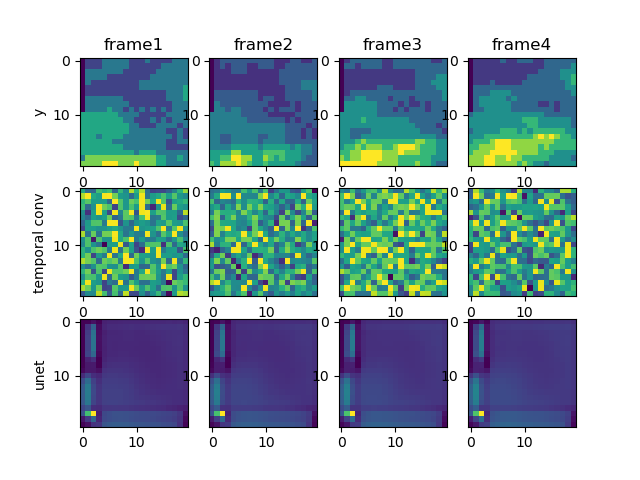
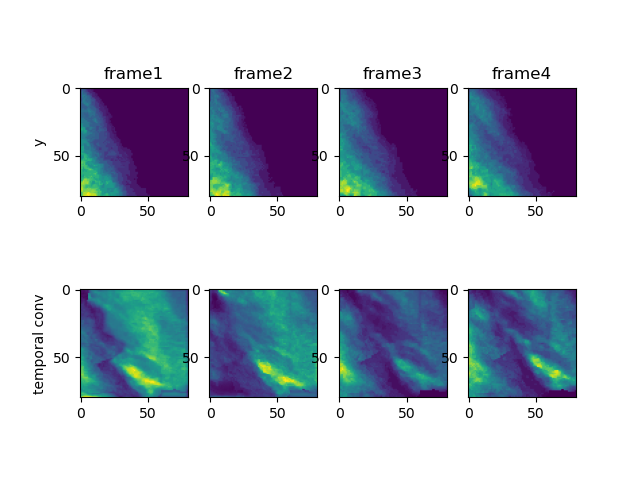
fixes

diff --git a/compare_models/results/results.html b/compare_models/results/results.html
@@ -1,1 +1,1 @@
-<table><head><th><td>local temporal conv</td><td>local unet</td></th></head><tbody><tr><td>val loss</td><td>0.00131</td><td>0.00115</td></tr><tr><td>val acc</td><td>0.94906</td><td>0.95181</td></tr><tr><td>val prec</td><td>0.00089</td><td>0.40956</td></tr><tr><td>val rec</td><td>0.00942</td><td>0.34021</td></tr><tr><td>val denorm mse</td><td>84.48019</td><td>74.45583</td></tr><tr><td>forward pass time s</td><td>0.03124</td><td>0.04242</td></tr><tr><td>n parameters</td><td>43936.00000</td><td>4032548.00000</td></tr></tbody></table>
+<table><head><th><td>local temporal conv</td><td>local unet</td></th></head><tbody><tr><td>val loss</td><td>0.04539</td><td>0.19925</td></tr><tr><td>val acc</td><td>0.93621</td><td>0.94430</td></tr><tr><td>val prec</td><td>0.12394</td><td>0.10152</td></tr><tr><td>val rec</td><td>0.08043</td><td>0.03812</td></tr><tr><td>val denorm mse</td><td>1331845.00000</td><td>5846781.00000</td></tr><tr><td>forward pass time s</td><td>0.04155</td><td>0.11981</td></tr><tr><td>n parameters</td><td>18720.00000</td><td>4032548.00000</td></tr></tbody></table>

diff --git a/compare_models/__main__.py b/compare_models/__main__.py
@@ -7,7 +7,8 @@ from ..GAT3D.GATMultistream import Model
 from ..train import test
 import json
 import time
-from ..utils import get_number_parameters, model_classes
+from ..utils.misc import get_number_parameters, model_classes
+from ..unet_model import UnetModel
 import ipdb
 
 
@@ -15,9 +16,9 @@ def get_metrics(models, models_folders, preprocessed_folder, downsample_size):
     device = t.device("cuda" if t.cuda.is_available() else "cpu")
     results = {}
     for model_folder, model in zip(models_folders, models):
-        train_loader, test_loader, _ = get_loaders(
+        _, test_loader, _ = get_loaders(
             train_batch_size=2,
-            test_batch_size=100,
+            test_batch_size=10,
             preprocessed_folder=preprocessed_folder,
             device=device,
             downsample_size=downsample_size,
@@ -34,19 +35,28 @@ def get_metrics(models, models_folders, preprocessed_folder, downsample_size):
     return results
 
 
-def plot(out_path, loader, models):
+def plot(folders, out_path, loader, models):
     _fig, ax = plt.subplots(nrows=len(folders) + 1, ncols=4)
+    for model, folder in zip(models, folders):
+        name = " ".join(folder.split("_")[1:])
+        print(f"Parameters {name}: {get_number_parameters(model)}")
+
+    names = [" ".join(f.split("_")[1:]) for f in folders]
     for x, y in loader:
         for k in range(len(x)):
             raininess = y[k][y[k] != 0].numel() / y[k].numel()
             if raininess >= 0.3:
-                preds = [model(x)[k] for model in models]
+                preds = [model(x)[k] for model, name in zip(models, names)]
+                # ipdb.set_trace()
                 to_plot = [y[k]] + preds
-                to_plot = [t.pow(tp, 1 / loader.power) for tp in to_plot]
+                # to_plot = [t.pow(tp, 1 / loader.power) for tp in to_plot]
                 for i, row in enumerate(ax):
                     for j, col in enumerate(row):
+                        cur_to_plot = to_plot[i].cpu().detach().numpy()
                         col.imshow(
-                            to_plot[i].cpu().detach().numpy()[:, :, j, 1]
+                            cur_to_plot[:, :, j, 1]
+                            # if i < 2 or (not "unet" in names[i - 1])
+                            # else cur_to_plot[j, :, :]
                         )
 
                 row_labels = ["y"] + [
@@ -59,7 +69,8 @@ def plot(out_path, loader, models):
                 for ax_, col in zip(ax[0, :], col_labels):
                     ax_.set_title(col)
 
-                plt.savefig(os.path.join(out_path, f"multi_model_plot.png"))
+                # plt.savefig(os.path.join(out_path, f"multi_model_plot.png"))
+                plt.show()
                 plt.close()
                 return
 
@@ -86,12 +97,11 @@ def compare_models(
     base_path: str,
     folders: list[str],
     out_path="",
-    downsample_size=(20, 20),
-    preprocessed_folder: str = "/mnt/kmni_dataset/20_plus_preprocessed",
+    downsample_size=(80, 80),
+    preprocessed_folder: str = "/mnt/kmni_dataset/20_latest",
     dataset="kmni",
-    plot_only=False,
+    plot_only=True,
 ):
-    plt.clf()
     with t.no_grad():
         device = t.device("cuda" if t.cuda.is_available() else "cpu")
         train_loader, test_loader, _ = get_loaders(
@@ -116,7 +126,15 @@ def compare_models(
                 open(os.path.join(data_folder, "config.py")).read(),
                 config,
             )
-            model_class = model_classes[config["MODEL_TYPE"]]
+            config = {
+                key: val for key, val in config.items() if key.upper() == key
+            }
+            print(json.dumps(config, indent=4, default=str))
+            model_class = (
+                model_classes[config["MODEL_TYPE"]]
+                # if not "unet" in config["MODEL_TYPE"]
+                # else UnetModel
+            )
             model = model_class(
                 image_width=image_width,
                 image_height=image_height,
@@ -138,10 +156,10 @@ def compare_models(
             print(json.dumps(results, indent=4))
             with open(os.path.join(out_path, "results.json"), "w") as f:
                 json.dump(results, f, indent=4)
-        plot(out_path, test_loader, models)
+        plot(folders, out_path, test_loader, models)
 
 
-if __name__ == "__main__":
+def main():
     base_folder = "convolutional_gat/experiments"
     folders = [
         "local_temporal_conv",
@@ -155,3 +173,7 @@ if __name__ == "__main__":
         out_path="convolutional_gat/compare_models/results",
         plot_only=False,
     )
+
+
+if __name__ == "__main__":
+    main()
